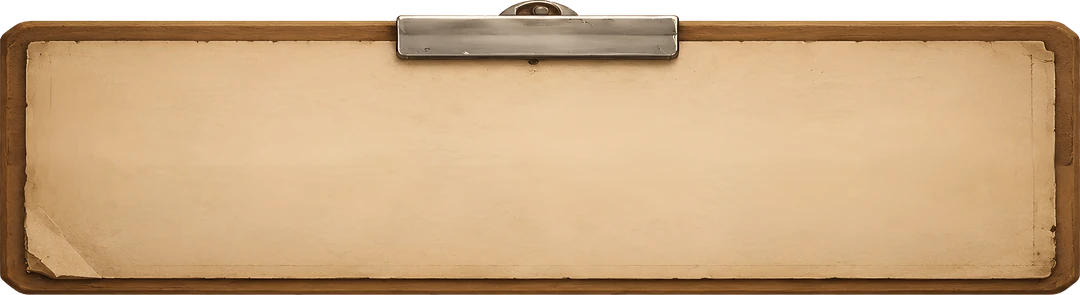
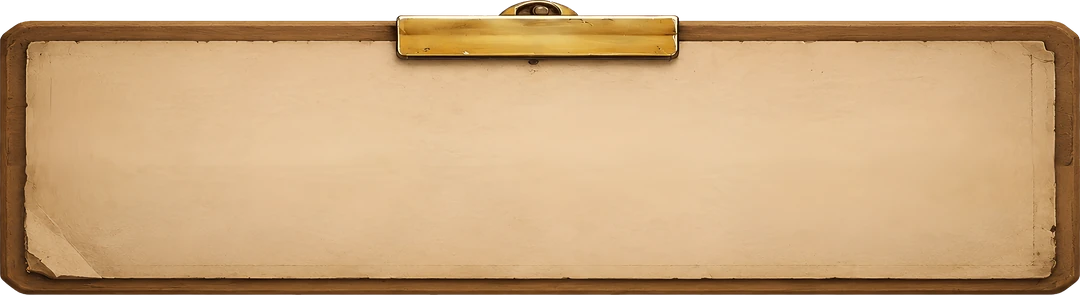
v2.102.3: de twee klemmetjes zijn goud
De klem is het enige stuk METAAL op het papier, en metaal is grijs: zijn
verzadiging ligt rond de 25 tot 40, terwijl het papier op 75 tot 90 zit en de
houten lijst op 85 tot 93. Op verzadiging selecteren is dus genoeg, en dan hoeft
er geen doos om de klem die bij het volgende vel weer ergens anders ligt.

De eerste poging bleef messing: netjes maar dof. Twee dingen erbij om hem fel te
krijgen. De reeks is verzadigder (het middengoud van 186,132,45 naar 214,142,24)
en de helderheid wordt eerst UITGEREKT, want het metaal in de plaat loopt maar
van ongeveer 45 tot 255 en dan haalt de top van de reeks je nooit: (lum-45)*1,35
zet de hooglichten wel op het lichtste goud.

Opnieuw vanaf de bronbestanden gedaan en niet over de al vergulde webp heen,
anders verguld je de tweede keer je eigen resultaat. Nagekeken dat er verder
niets is meegekleurd: het papier en de lijst zijn onaangeroerd.

Changed region(s): [[0.3667, 0.0, 0.6417, 0.2136]]

diff --git a/frontend/src/screens/_PreviewWoordketen.tsx b/frontend/src/screens/_PreviewWoordketen.tsx
@@ -385,7 +385,7 @@ export function Woordketen({ seed, onKlaar, onOpnieuw }: {
 
         {/* HET LANGE KLEMBORD: de ketting die je hebt gebouwd. Geen schaduw: hij
             vervaagt aan de onderkant naar de achtergrond toe. */}
-        <Laag art="/ui/keten/klembord-lang.webp?v=1" maat={ART.klem} schaduw={false} zIndex={1}>
+        <Laag art="/ui/keten/klembord-lang.webp?v=3" maat={ART.klem} schaduw={false} zIndex={1}>
           <div
             style={{
               position: "absolute", left: "8%", right: "8%", top: "13%", height: "26%",
@@ -464,7 +464,7 @@ export function Woordketen({ seed, onKlaar, onOpnieuw }: {
         </Laag>
 
         {/* HET KORTE KLEMBORD: het invulveld. */}
-        <Laag art="/ui/keten/klembord-invul.webp?v=1" maat={ART.invul} zIndex={3} blur={13} zak={10}>
+        <Laag art="/ui/keten/klembord-invul.webp?v=3" maat={ART.invul} zIndex={3} blur={13} zak={10}>
           <form
             onSubmit={(e) => { e.preventDefault(); void lever(); }}
             style={{ position: "absolute", inset: "31% 8% 11%", display: "flex", alignItems: "center", gap: 8 }}

diff --git a/frontend/src/version.ts b/frontend/src/version.ts
@@ -1,2 +1,2 @@
 // Bump per user-facing release. Shown in Settings > About.
-export const APP_VERSION = "2.102.2";
+export const APP_VERSION = "2.102.3";
